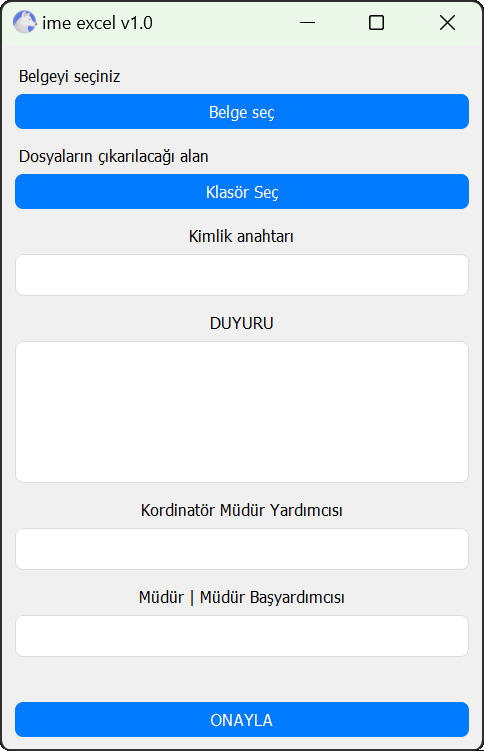
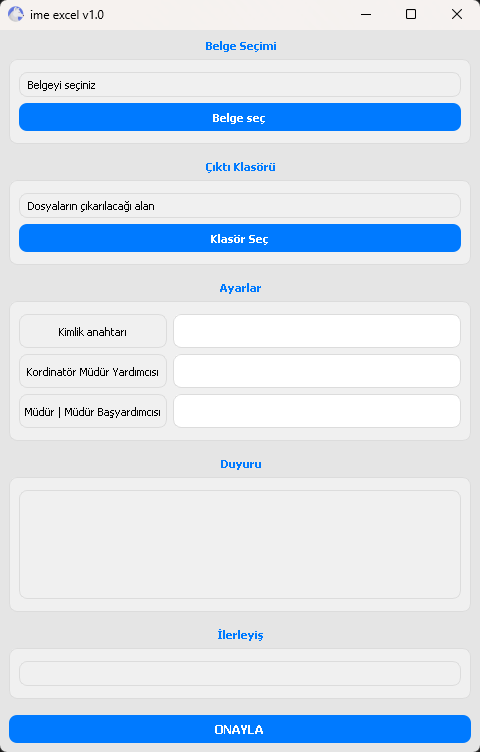
update ui and app image,

diff --git a/index.html b/index.html
@@ -14,12 +14,12 @@
         };
     </script>
 </head>
-<body class="h-screen overflow-hidden bg-gradient-to-br from-gray-900 to-gray-800 text-white">
+<body class="min-h-screen bg-gradient-to-br from-gray-900 to-gray-800 text-white">
     <!-- Header -->
     <header class="fixed w-full top-0 bg-gray-900/60 backdrop-blur-md z-50 border-b border-gray-700/30">
-        <nav class="container mx-auto px-6 py-5">
+        <nav class="container mx-auto px-4 sm:px-6 py-3 sm:py-5">
             <div class="flex items-center justify-between">
-                <h1 class="text-2xl font-bold bg-gradient-to-r from-blue-400 to-blue-600 bg-clip-text text-transparent">
+                <h1 class="text-xl sm:text-2xl font-bold bg-gradient-to-r from-blue-400 to-blue-600 bg-clip-text text-transparent">
                     İME Excel
                 </h1>
                 <div>
@@ -33,65 +33,65 @@
     </header>
 
     <!-- Main Content -->
-    <main class="container mx-auto px-6 pt-20 pb-12 h-[calc(100vh-30px)] overflow-y-auto lg:overflow-hidden">
-        <div class="h-full flex flex-col lg:flex-row items-center gap-6">
+    <main class="container mx-auto px-4 sm:px-6 pt-24 pb-16 min-h-screen">
+        <div class="flex flex-col lg:flex-row items-center gap-6">
             <!-- Sol Panel -->
             <div class="w-full lg:w-1/2 space-y-4 py-4">
                 <div class="space-y-4">
-                    <h2 class="text-4xl font-bold leading-tight">
+                    <h2 class="text-3xl sm:text-4xl font-bold leading-tight">
                         Öğretmenler İçin<br/>
                         <span class="bg-gradient-to-r from-blue-400 to-blue-600 bg-clip-text text-transparent">
                             Excel Otomasyon Çözümü
                         </span>
                     </h2>
-                    <p class="text-lg text-gray-300 leading-relaxed">
+                    <p class="text-base sm:text-lg text-gray-300 leading-relaxed">
                         Programımız öğretmenlerin elle yapması gereken işlemleri otomatikleştirerek büyük ölçüde zaman kazandırır. 
                         Uygulama, önce öğretmenleri ve çalıştıkları firmaları ayırır, ardından bu firmalardaki öğrencileri 
                         listeleyerek gerekli raporları oluşturur.
                     </p>
-                    <div class="space-y-4 text-gray-300">
+                    <div class="space-y-3 text-gray-300">
                         <div class="flex items-center gap-3">
-                            <svg xmlns="http://www.w3.org/2000/svg" class="h-6 w-6 text-blue-400" fill="none" viewBox="0 0 24 24" stroke="currentColor">
+                            <svg xmlns="http://www.w3.org/2000/svg" class="h-5 w-5 sm:h-6 sm:w-6 text-blue-400 flex-shrink-0" fill="none" viewBox="0 0 24 24" stroke="currentColor">
                                 <path stroke-linecap="round" stroke-linejoin="round" stroke-width="2" d="M5 13l4 4L19 7" />
                             </svg>
-                            <span>Öğrenci sayısı formları otomatik oluşturma</span>
+                            <span class="text-sm sm:text-base">Öğrenci sayısı formları otomatik oluşturma</span>
                         </div>
                         <div class="flex items-center gap-3">
-                            <svg xmlns="http://www.w3.org/2000/svg" class="h-6 w-6 text-blue-400" fill="none" viewBox="0 0 24 24" stroke="currentColor">
+                            <svg xmlns="http://www.w3.org/2000/svg" class="h-5 w-5 sm:h-6 sm:w-6 text-blue-400 flex-shrink-0" fill="none" viewBox="0 0 24 24" stroke="currentColor">
                                 <path stroke-linecap="round" stroke-linejoin="round" stroke-width="2" d="M5 13l4 4L19 7" />
                             </svg>
-                            <span>Günlük, haftalık ve aylık görev formları</span>
+                            <span class="text-sm sm:text-base">Günlük, haftalık ve aylık görev formları</span>
                         </div>
                         <div class="flex items-center gap-3">
-                            <svg xmlns="http://www.w3.org/2000/svg" class="h-6 w-6 text-blue-400" fill="none" viewBox="0 0 24 24" stroke="currentColor">
+                            <svg xmlns="http://www.w3.org/2000/svg" class="h-5 w-5 sm:h-6 sm:w-6 text-blue-400 flex-shrink-0" fill="none" viewBox="0 0 24 24" stroke="currentColor">
                                 <path stroke-linecap="round" stroke-linejoin="round" stroke-width="2" d="M5 13l4 4L19 7" />
                             </svg>
-                            <span>Hatasız ve baskıya hazır Excel çıktıları</span>
+                            <span class="text-sm sm:text-base">Hatasız ve baskıya hazır Excel çıktıları</span>
                         </div>
                     </div>
                 </div>
                 
-                <div class="flex gap-4">
+                <div class="flex flex-wrap gap-4 mt-6">
                     <a href="#" onclick="window.location.href=CONFIG.downloadLink" 
-                       class="bg-blue-600 hover:bg-blue-700 px-6 py-3 rounded-lg transition-all duration-300 transform hover:scale-105 inline-flex items-center gap-2">
+                       class="bg-blue-600 hover:bg-blue-700 px-4 sm:px-6 py-2 sm:py-3 rounded-lg transition-all duration-300 transform hover:scale-105 inline-flex items-center gap-2 text-sm sm:text-base">
                         <span>Hemen İndir</span>
-                        <svg xmlns="http://www.w3.org/2000/svg" class="h-5 w-5" fill="none" viewBox="0 0 24 24" stroke="currentColor">
+                        <svg xmlns="http://www.w3.org/2000/svg" class="h-4 w-4 sm:h-5 sm:w-5" fill="none" viewBox="0 0 24 24" stroke="currentColor">
                             <path stroke-linecap="round" stroke-linejoin="round" stroke-width="2" d="M4 16v1a3 3 0 003 3h10a3 3 0 003-3v-1m-4-4l-4 4m0 0l-4-4m4 4V4" />
                         </svg>
                     </a>
                     <a href="#nasil-kullanilir" 
-                       class="border border-blue-600 hover:bg-blue-600/20 px-6 py-3 rounded-lg transition-all duration-300">
+                       class="border border-blue-600 hover:bg-blue-600/20 px-4 sm:px-6 py-2 sm:py-3 rounded-lg transition-all duration-300 text-sm sm:text-base">
                         Nasıl Kullanılır?
                     </a>
                 </div>
             </div>
 
             <!-- Sağ Panel -->
-            <div class="w-full lg:w-1/2 h-full flex items-center justify-center">
-                <div class="relative w-[300px] m-6 transform perspective-1000 rotate-y-3 rotate-x-3 hover:rotate-y-0 hover:rotate-x-0 transition-transform duration-500">
+            <div class="w-full lg:w-1/2 flex items-center justify-center mt-8 lg:mt-0">
+                <div class="relative w-4/5 sm:w-3/5 transform perspective-1000 rotate-y-3 rotate-x-3 hover:rotate-y-0 hover:rotate-x-0 transition-transform duration-500">
                     <div class="absolute -inset-3 bg-gradient-to-r from-blue-600 to-blue-400 rounded-2xl blur opacity-30"></div>
                     <div class="relative bg-gray-900 rounded-xl overflow-hidden shadow-2xl">
-                        <div class="aspect-[49/75] p-1">
+                        <div class="aspect-[9/14] p-1">
                             <img src="app.png" alt="IME Excel Uygulama Görüntüsü" 
                                  class="w-full h-full object-contain">
                         </div>
@@ -107,7 +107,7 @@
 
     <!-- Footer -->
     <footer class="fixed bottom-0 left-0 right-0 bg-gray-900/60 backdrop-blur-md border-t border-gray-700/30 z-50">
-        <div class="container mx-auto px-6 py-2">
+        <div class="container mx-auto px-4 sm:px-6 py-2">
             <p class="text-center text-gray-400 text-sm">&copy; 2024 İME Excel. Tüm hakları saklıdır.</p>
         </div>
     </footer>
